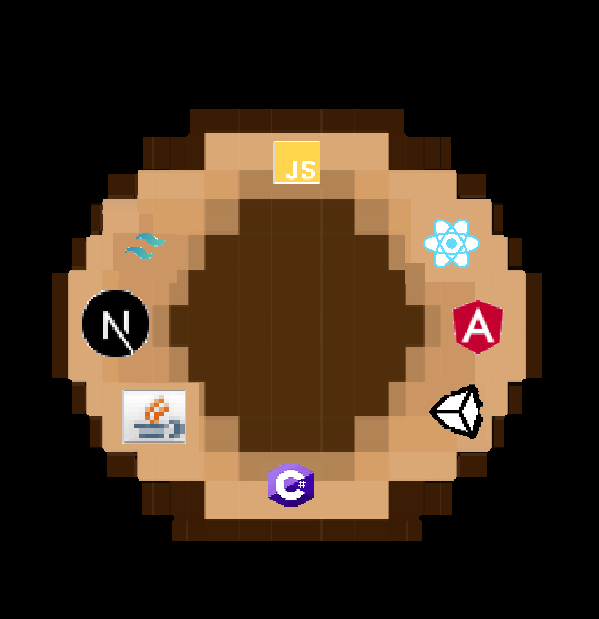
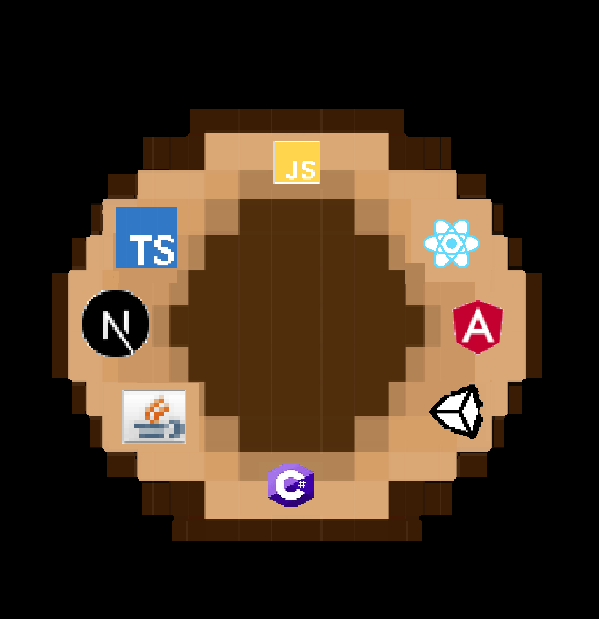
updated projects section

Changed region(s): [[0.1803, 0.3069, 0.3005, 0.4604]]

diff --git a/app/rcomponents/projectsText.tsx b/app/rcomponents/projectsText.tsx
@@ -62,21 +62,21 @@ const ProjectsText: React.FC = () => {
           <h6 id="projectsHeaderText">Projects</h6>
         
         <div id="projectsPokeballContainer">
-        <img id="projectsPokeball" ref={pokeballRef} src="/pokeball.gif" />
-<img id="pikachujump" ref={pikachujumpRef} src="/pikachujump.gif" style={{display: 'none'}}/>
-<img id="pikachurun" ref={pikachurunRef} src="/pikachurun.gif" style={{display: 'none'}}/>
-<img id="textbox" ref={textboxRef} src="/textbox.gif" style={{display: 'none'}}/>
-<img id="textstill" ref={textstillRef} src="/textstill.png" style={{display: 'none'}}/>
+          <img id="projectsPokeball" ref={pokeballRef} src="/pokeball.gif" />
+          <img id="pikachujump" ref={pikachujumpRef} src="/pikachujump.gif" style={{display: 'none'}}/>
+          <img id="pikachurun" ref={pikachurunRef} src="/pikachurun.gif" style={{display: 'none'}}/>
+          <img id="textbox" ref={textboxRef} src="/textbox.gif" style={{display: 'none'}}/>
+          <img id="textstill" ref={textstillRef} src="/textstill.png" style={{display: 'none'}}/>
         </div>
       </div>
       <p id="projectsPar">   
             <b>// <i>Misplaced</i></b> - Wrote over 100k lines of code creating a Lost and Found app/website for TU students (with expansion in progress). Made with MERN stack (React Native), JavaScript, and Google Cloud APIs. More details and demos on GitHub - <a href="https://misplaced.app" target="_blank"><span id="projectsLi">Misplaced.app (Beta)</span></a> & <a href="https://github.com/misplaced-dev/misplaced" target="_blank"><span id="projectsLi">GitHub</span></a>  
             <br/>
             <br/>
+            <b># <i>Mariam & Gebriel EOTC Website</i></b> - Led a team of 7 devs to make a website to give back to our childhood church in MEAN stack and TypeScript (In Progress)
+            <br/>
+            <br/>
             <b>/* <i>Light Mode Portfolio Website</i></b> - Click button on navbar to view progress! (Next.js, React.tsx, TypeScript, Tailwind CSS)
-            <br/>
-            <br/>
-            <b># <i>Mariam & Gebriel EOTC Website</i></b> - Mariam & Gebriel EOTC -- Leading a team of 5 devs to make a website to give back to our childhood church and learn MEAN stack and TypeScript (In Progress)
             <br/>
             <br/>
             <b>/// <i>2D Sonic Platformer</i></b> - Gained experience with physics and animation in Unity Game Engine & C# (30s Demo on <a href="https://github.com/dawitalemu4/sonic" target="_blank"><span id="projectsLi">GitHub</span></a>)
